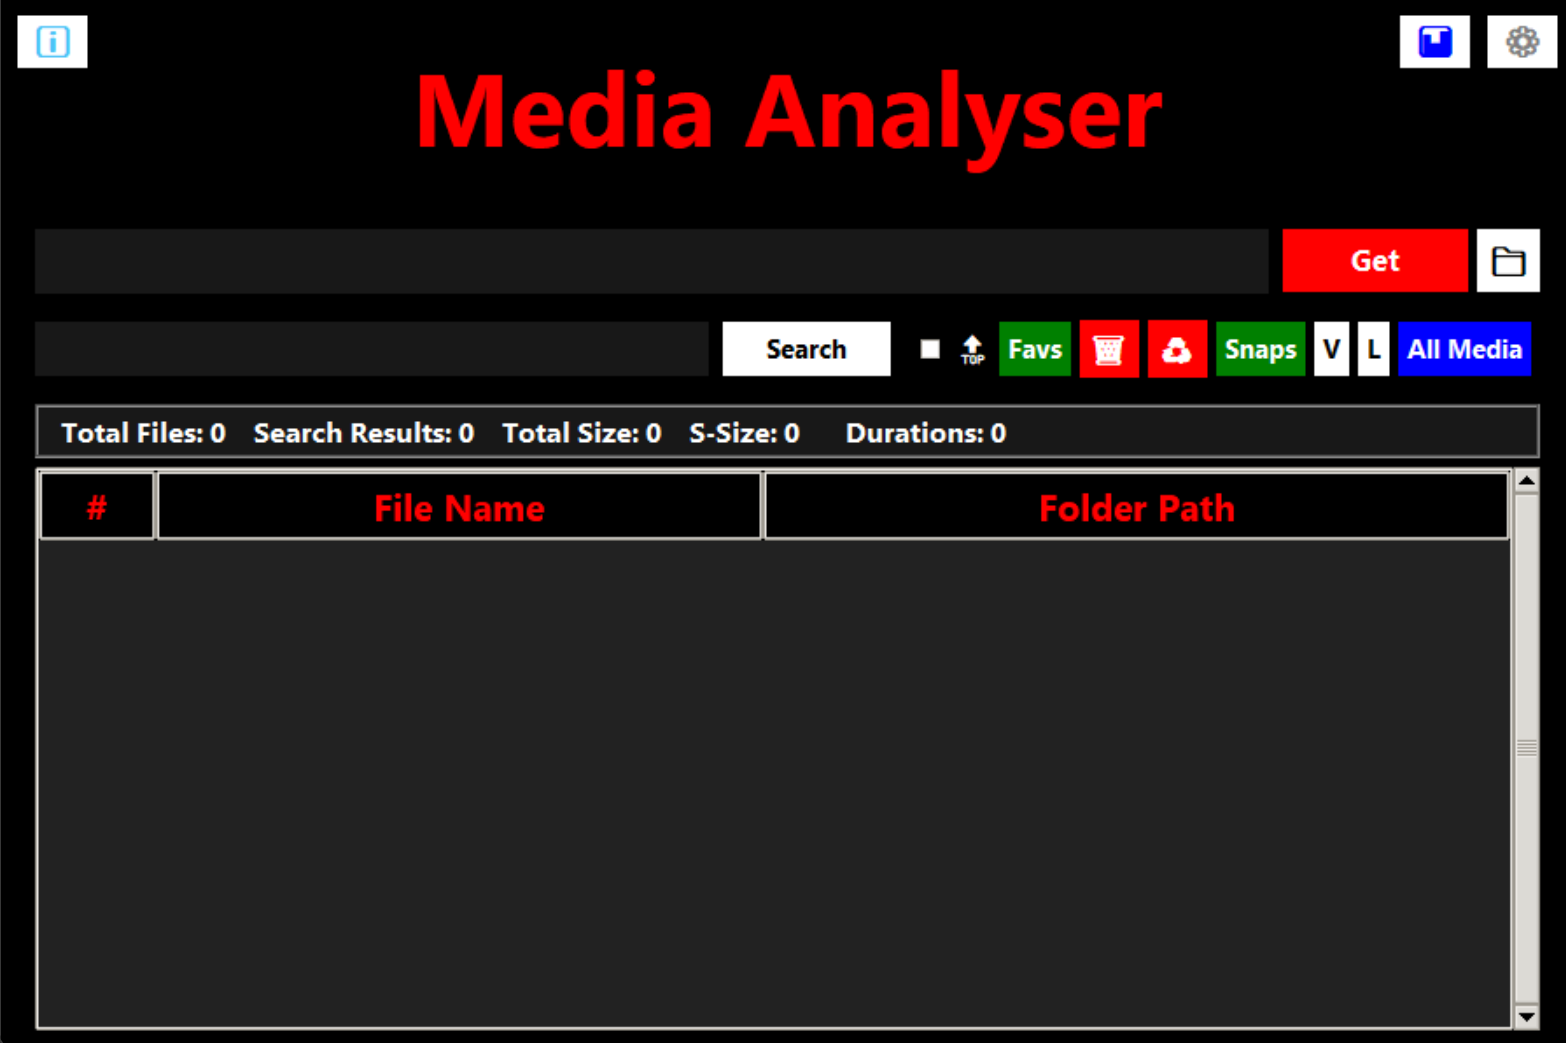
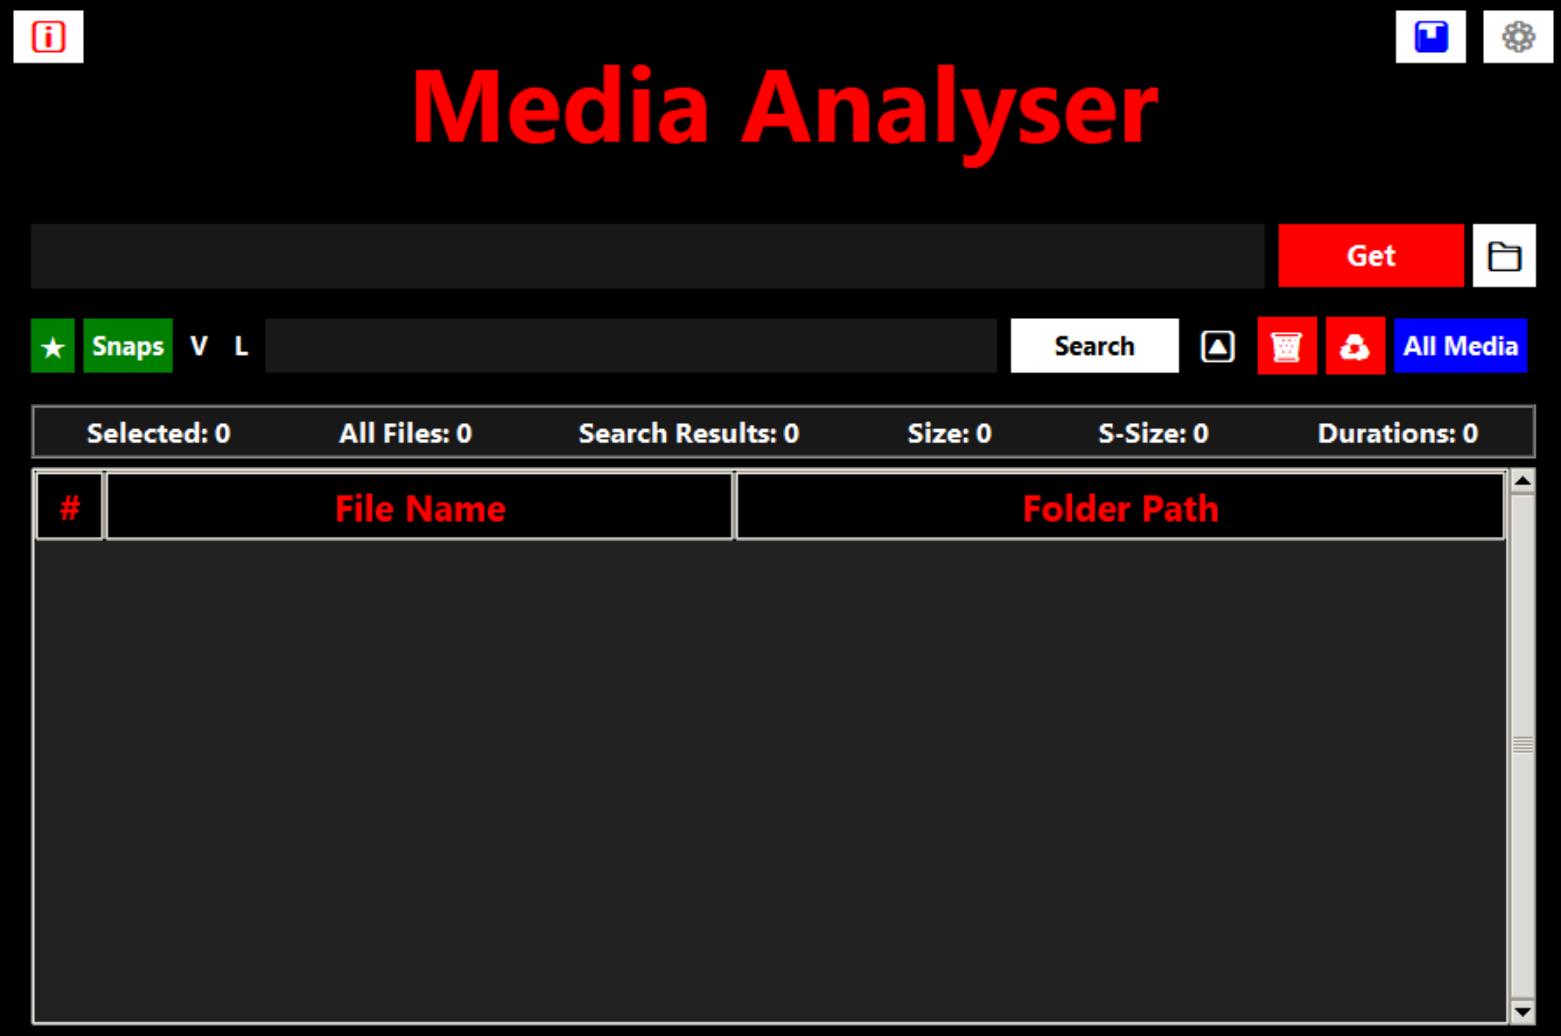
v3.2.6 - Added method for show paths instead of hard coding. Changed the button placements for better visuals. Changed the top_level button from checkbox, to selection button. Added keeping count of selected files in the table for ease of managing files. Removed the multiple initiations of fav_manag

diff --git a/gui_main.py b/gui_main.py
@@ -44,6 +44,7 @@ class FileExplorerApp:
         self.total_search_results = 0
         self.total_duration_watched = 0.0
         self.search_size = 0
+        self.video_files = []
 
         ensure_folder_exists(FILES_FOLDER)
         ensure_folder_exists(SCREENSHOTS_FOLDER)
@@ -107,12 +108,12 @@ class FileExplorerApp:
         if not selected_items:
             messagebox.showinfo("No Selection", "Select a File To Remove from Favs.")
             return
-        fav_manager = FavoritesManager()
+        # fav_manager = FavoritesManager()
         for item in selected_items:
             file_path = normalise_path(self.file_table.item(item, "values")[2])
             try:
-                if fav_manager.check_favorites(file_path):
-                    fav_manager.delete_from_favorites(file_path)
+                if self.fav_manager.check_favorites(file_path):
+                    self.fav_manager.delete_from_favorites(file_path)
                 else:
                     messagebox.showerror("Removal Failed", f"Failed to remove file: {file_path} from Favorites.")
             except Exception as e:
@@ -131,12 +132,12 @@ class FileExplorerApp:
         if not confirm:
             return
         
-        fav_manager = FavoritesManager()
+        # fav_manager = FavoritesManager()
         for item in selected_items:
             file_path = normalise_path(self.file_table.item(item, "values")[2])
             try:
-                if not fav_manager.check_favorites(file_path):
-                    fav_manager.add_to_favorites(file_path)
+                if not self.fav_manager.check_favorites(file_path):
+                    self.fav_manager.add_to_favorites(file_path)
                 else:
                     messagebox.showerror("Addition Failed", f"Failed to Add file: {file_path} To Favorites.")
             except Exception as e:
@@ -319,7 +320,39 @@ class FileExplorerApp:
 
         self.search_frame = tk.Frame(self.root, bg="black")
         self.search_frame.pack(side="top", fill="x", padx=20, pady=(0, 10))
+        
+        self.filter_favs = tk.Button(
+            self.search_frame, text="★", command=self.check_update_favs,
+            bg="green", fg="white", font=("Segoe UI", 11, "bold"),
+            bd=0, relief=tk.RAISED, activebackground="#006400",
+            cursor="hand2"
+        )
+        self.filter_favs.pack(side="left", padx=(0, 5), pady=0)
 
+        self.show_caps = tk.Button(
+            self.search_frame, text="Snaps", command=self.display_caps,
+            bg="green", fg="white", font=("Segoe UI", 11, "bold"),
+            bd=0, relief=tk.RAISED, activebackground="#006400",
+            cursor="hand2"
+        )
+        self.show_caps.pack(side="left", padx=(0, 5), pady=0)
+
+        self.show_verticals = tk.Button(
+            self.search_frame, text="V", command=self.get_verticals,
+            bg="black", fg="white", font=("Segoe UI", 11, "bold"),
+            bd=0, relief=tk.RAISED, activebackground="#e0e0e0",
+            cursor="hand2"
+        )
+        self.show_verticals.pack(side="left", padx=(0,5), pady=0)
+
+        self.show_horizontals = tk.Button(
+            self.search_frame, text="L", command=self.get_horizontals,
+            bg="black", fg="white", font=("Segoe UI", 11, "bold"),
+            bd=0, relief=tk.RAISED, activebackground="#e0e0e0",
+            cursor="hand2"
+        )
+        self.show_horizontals.pack(side="left", padx=(0, 5), pady=0)
+        
         self.search_entry = tk.Entry(
             self.search_frame, bg="#181818", fg="white", width=30, bd=2, relief=tk.FLAT,
             font=("Segoe UI", 12)
@@ -334,22 +367,29 @@ class FileExplorerApp:
         )
         self.search_button.pack(side="left", padx=(0, 0), pady=0)
 
-        self.top_level_only_var = tk.BooleanVar(value=False)
-        self.top_level_only_check = ttk.Checkbutton(
-            self.search_frame, text="🔝", variable=self.top_level_only_var,
-            style="Modern.TCheckbutton",
-            cursor="hand2",
-            takefocus=0,
-        )
-        self.top_level_only_check.pack(side="left", padx=(5, 0), pady=5)
+        # self.top_level_only_var = tk.BooleanVar(value=False)
+        # self.top_level_only_check = ttk.Checkbutton(
+        #     self.search_frame, text="🔼", variable=self.top_level_only_var,
+        #     style="Modern.TCheckbutton",
+        #     cursor="hand2",
+        #     takefocus=0,
+        # )
+        # self.top_level_only_check.pack(side="left", padx=(5, 0), pady=5)
 
-        self.filter_favs = tk.Button(
-            self.search_frame, text="Favs", command=self.check_update_favs,
-            bg="green", fg="white", font=("Segoe UI", 11, "bold"),
-            bd=0, relief=tk.RAISED, activebackground="#006400",
+        self.top_level_only_on = False
+        def toggle_top_level():
+            self.top_level_only_on = not self.top_level_only_on
+            if self.top_level_only_on:
+                self.top_level_only_button.config(bg="#4FC3F7", fg="black", relief=tk.SUNKEN)
+            else:
+                self.top_level_only_button.config(bg="black", fg="white", relief=tk.RAISED)
+        self.top_level_only_button = tk.Button(
+            self.search_frame, text="🔼", command=toggle_top_level,
+            bg="black", fg="white", font=("Segoe UI", 13, "bold"),
+            bd=0, relief=tk.RAISED, activebackground="#e0e0e0",
             cursor="hand2"
         )
-        self.filter_favs.pack(side="left", padx=(0, 5), pady=0)
+        self.top_level_only_button.pack(side="left", padx=(5, 5), pady=5)
 
         self.delete_button = tk.Button(
             self.search_frame, text="🗑", command=self.on_delete_all_pressed,
@@ -366,31 +406,7 @@ class FileExplorerApp:
             cursor="hand2"
         )
         self.refresh_deleted.pack(side="left", padx=(0, 5), pady=5)
-
-        self.show_caps = tk.Button(
-            self.search_frame, text="Snaps", command=self.display_caps,
-            bg="green", fg="white", font=("Segoe UI", 11, "bold"),
-            bd=0, relief=tk.RAISED, activebackground="#006400",
-            cursor="hand2"
-        )
-        self.show_caps.pack(side="left", padx=(0, 5), pady=0)
-
-        self.show_verticals = tk.Button(
-            self.search_frame, text="V", command=self.get_verticals,
-            bg="white", fg="black", font=("Segoe UI", 11, "bold"),
-            bd=0, relief=tk.RAISED, activebackground="#e0e0e0",
-            cursor="hand2"
-        )
-        self.show_verticals.pack(side="left", padx=(0,5), pady=0)
-
-        self.show_horizontals = tk.Button(
-            self.search_frame, text="L", command=self.get_horizontals,
-            bg="white", fg="black", font=("Segoe UI", 11, "bold"),
-            bd=0, relief=tk.RAISED, activebackground="#e0e0e0",
-            cursor="hand2"
-        )
-        self.show_horizontals.pack(side="left", padx=(0, 5), pady=0)
-
+        
         self.all_media_button = tk.Button(
             self.search_frame, text="All Media", command=self.show_all_media,
             bg="blue", fg="white", font=("Segoe UI", 11, "bold"),
@@ -400,39 +416,47 @@ class FileExplorerApp:
         self.all_media_button.pack(side="left", padx=(0, 5), pady=0)
 
         self.stats_frame = tk.Frame(self.root, bg="#181818", bd=2, relief=tk.GROOVE)
-        self.stats_frame.pack(side="top", fill="x", padx=20, pady=(0, 5))
+        self.stats_frame.pack(side="top", fill="x", padx=20, pady=(0, 5), anchor="center")
 
-        self.total_files_label = tk.Label(
-            self.stats_frame, text="Total Files: 0", bg="#181818", fg="white",
+        self.selected_files_label = tk.Label(
+            self.stats_frame, text="Selected: 0", bg="#181818", fg="white",
             font=("Segoe UI", 12, "bold")
         )
-        self.total_files_label.pack(side="left", padx=(10, 10))
+        self.selected_files_label.grid(row=0, column=0, padx=10, pady=0, sticky="ew")
+
+        self.total_files_label = tk.Label(
+            self.stats_frame, text="All Files: 0", bg="#181818", fg="white",
+            font=("Segoe UI", 12, "bold")
+        )
+        self.total_files_label.grid(row=0, column=1, padx=10, pady=0, sticky="ew")
 
         self.search_results_label = tk.Label(
             self.stats_frame, text="Search Results: 0", bg="#181818", fg="white",
             font=("Segoe UI", 12, "bold")
         )
-        self.search_results_label.pack(side="left", padx=(0, 10))
+        self.search_results_label.grid(row=0, column=2, padx=10, pady=0, sticky="ew")
 
         self.total_size_label = tk.Label(
-            self.stats_frame, text="Total Size: 0", bg="#181818", fg="white",
+            self.stats_frame, text="Size: 0", bg="#181818", fg="white",
             font=("Segoe UI", 12, "bold")
         )
-        self.total_size_label.pack(side="left", padx=(0, 10))
+        self.total_size_label.grid(row=0, column=3, padx=10, pady=0, sticky="ew")
 
         self.search_size_label = tk.Label(
             self.stats_frame, text="S-Size: 0", bg="#181818", fg="white",
             font=("Segoe UI", 12, "bold")
         )
-        self.search_size_label.pack(side="left", padx=(0, 10))
+        self.search_size_label.grid(row=0, column=4, padx=10, pady=0, sticky="ew")
 
         self.total_duration_label = tk.Label(
             self.stats_frame, text="Durations: 0", bg="#181818", fg="white",
             font=("Segoe UI", 12, "bold")
         )
-        self.total_duration_label.pack(side="left", padx=(10, 10))
+        self.total_duration_label.grid(row=0, column=5, padx=10, pady=0, sticky="ew")
 
         self._create_table()
+        for i in range(6):
+            self.stats_frame.grid_columnconfigure(i, weight=1)
 
         self.settings_button = tk.Button(
             self.root, text="⚙", command=self.open_settings,
@@ -453,7 +477,7 @@ class FileExplorerApp:
 
         self.info_button = tk.Button(
             self.root, text="ℹ", command=self.show_info,
-            bg="white", fg="#4FC3F7", bd=0, font=("Segoe UI", 13, "bold"),
+            bg="white", fg="red", bd=0, font=("Segoe UI", 13, "bold"),
             relief=tk.FLAT, activebackground="#e0e0e0",
             cursor="hand2"
         )
@@ -468,12 +492,18 @@ class FileExplorerApp:
                 e.widget.config(bg="red")
             elif e.widget == self.refresh_deleted or e.widget["text"] == "♻":
                 e.widget.config(bg="red")
-            elif "Favs" in e.widget["text"] or "Snaps" in e.widget["text"]:
+            elif "★" in e.widget["text"] or "Snaps" in e.widget["text"]:
                 e.widget.config(bg="green")
+            elif "V" in e.widget["text"] or "L" in e.widget["text"]:
+                e.widget.config(bg="black")
+            elif e.widget == self.all_media_button:
+                e.widget.config(bg="blue")
             else:
                 e.widget.config(bg="white")
 
-        for btn in [self.enter_button, self.delete_button, self.refresh_deleted, self.filter_favs, self.show_caps, self.show_verticals, self.show_horizontals]:
+        for btn in [self.enter_button, self.delete_button, self.refresh_deleted,
+                     self.filter_favs, self.show_caps, self.show_verticals, self.show_horizontals,
+                     self.all_media_button]:
             btn.bind("<Enter>", on_enter)
             btn.bind("<Leave>", on_leave)
 
@@ -488,7 +518,7 @@ class FileExplorerApp:
         self.file_table.heading("File Name", text="File Name", command=lambda: self.treeview_sort_column("File Name", False))
         self.file_table.heading("Folder Path", text="Folder Path", command=lambda: self.treeview_sort_column("Folder Path", False))
 
-        self.file_table.column("#", width=40, anchor="center")
+        self.file_table.column("#", width=40, anchor="center", stretch=False)
         self.file_table.column("File Name", width=320, anchor="w")
         self.file_table.column("Folder Path", width=400, anchor="w")
 
@@ -497,9 +527,15 @@ class FileExplorerApp:
 
         self.file_table.pack(side="left", fill="both", expand=True)
 
+        self.file_table.bind("<<TreeviewSelect>>", self.update_selected_files_label)
+
         self.scrollbar = ttk.Scrollbar(table_frame, orient="vertical", command=self.file_table.yview)
         self.scrollbar.pack(side="right", fill="y")
         self.file_table.configure(yscrollcommand=self.scrollbar.set)
+
+    def update_selected_files_label(self, event=None):
+        selected_count = len(self.file_table.selection())
+        self.selected_files_label.config(text=f"Selected: {selected_count}")
 
     def show_info(self):
         if hasattr(self, "_info_window") and self._info_window.winfo_exists():
@@ -509,16 +545,16 @@ class FileExplorerApp:
         self._info_window = tk.Toplevel(self.root)
         self._info_window.title("How to Use Random Media Player")
         self._info_window.configure(bg="#222")
-        self._info_window.geometry("520x420")
+        self._info_window.geometry("600x500")
         self._info_window.resizable(False, False)
         self._info_window.transient(self.root)
         self._info_window.grab_set()
-        self.center_window(window=self._info_window, width=520, height=420)
+        self.center_window(window=self._info_window, width=600, height=600)
 
-        icon_label = tk.Label(self._info_window, text="ℹ", font=("Segoe UI Emoji", 48), bg="#222", fg="#4FC3F7")
+        icon_label = tk.Label(self._info_window, text="ℹ", font=("Segoe UI Emoji", 48), bg="#222", fg="red")
         icon_label.pack(pady=(18, 0))
 
-        title_label = tk.Label(self._info_window, text="How to Use", font=("Segoe UI", 22, "bold"), bg="#222", fg="#4FC3F7")
+        title_label = tk.Label(self._info_window, text="How to Use", font=("Segoe UI", 22, "bold"), bg="#222", fg="red")
         title_label.pack(pady=(0, 10))
 
         frame = tk.Frame(self._info_window, bg="#222")
@@ -538,8 +574,8 @@ class FileExplorerApp:
             "• Enter a folder path Or Browse it using '📁' and click 'Get' to list media files.\n"
             "• You can enter multiple folder paths separated by commas.\n"
             "• Use 'Search' to filter files by name.\n"
-            "• Use '🔝' to search only in the top-level folder.\n"
-            "• Use 'Snaps' to view screenshots taken in the VideoPlayer.\n"
+            "• Use '🔼' to search only in the top-level folder.\n"
+            "• Use '★' and'Snaps' to view favorite files and screenshots taken respectively.\n"
             "• Double-click/Enter a file to play it.\n"
             "• Right-click a file for more options (move, delete).\n"
             "• Keyboard Shortcuts:\n"
@@ -548,8 +584,7 @@ class FileExplorerApp:
             "    - Ctrl+M: Move selected files\n"
             "    - Delete: Mark for deletion\n"
             "    - Ctrl+Shift+Delete: Remove from deletion list\n"
-            "• You can use 'V' and 'L' buttons to filter for\n"
-            "   vertical and landscape videos.\n"
+            "• You can use 'V' and 'L' buttons to filter for vertical and landscape videos.\n"
             "• Use the settings (⚙) and stats (📊) buttons for more features.\n"
             "\nNote: to use V and L you'd have to download ffmpeg on your system.\n" \
             "Download FFmpeg from: https://ffmpeg.org/download.html\n" \
@@ -558,7 +593,7 @@ class FileExplorerApp:
         info_text.config(state="disabled")
         close_btn = tk.Button(
             self._info_window, text="Close", command=self._info_window.destroy,
-            font=("Segoe UI", 12, "bold"), bg="#4FC3F7", fg="#222", bd=0,
+            font=("Segoe UI", 12, "bold"), bg="white", fg="#222", bd=0,
             relief="flat", activebackground="#0288D1", activeforeground="#fff",
             cursor="hand2"
         )
@@ -670,12 +705,13 @@ class FileExplorerApp:
                 self.update_stats()
             
             elif folder_path_string == "show paths":
-                self.reset_search_option(folder=True)
-                with open(FOLDER_LOGS, "r", encoding="utf-8") as file:
-                    reader = csv.DictReader(file)
+                # self.reset_search_option(folder=True)
+                # with open(FOLDER_LOGS, "r", encoding="utf-8") as file:
+                #     reader = csv.DictReader(file)
 
-                    self.folders = list(set((normalise_path(row["Folder Path"]), normalise_path(row["Csv Path"])) for row in reader if os.path.isdir(row["Folder Path"])))
-                self.video_files = []
+                #     self.folders = list(set((normalise_path(row["Folder Path"]), normalise_path(row["Csv Path"])) for row in reader if os.path.isdir(row["Folder Path"])))
+                # self.video_files = []
+                self.show_paths()
             
             elif folder_path_string == "show deletes":
                 # Show files marked as "ToDelete"
@@ -711,6 +747,25 @@ class FileExplorerApp:
         elif self.play_folder:
             print(f"Total Folders in Search History: {len(self.folders)}")
             self.insert_to_table(sorted(self.folders))
+
+    def show_paths(self):
+        """Show only those folder/csv pairs where both the folder and the CSV file exist."""
+        self.reset_search_option(folder=True)
+        valid_folders = []
+        try:
+            with open(FOLDER_LOGS, "r", encoding="utf-8") as file:
+                reader = csv.DictReader(file)
+                for row in reader:
+                    folder_path = normalise_path(row["Folder Path"])
+                    csv_path = normalise_path(row["Csv Path"])
+                    if os.path.isdir(folder_path) and os.path.isfile(csv_path):
+                        valid_folders.append((folder_path, csv_path))
+            self.folders = list(set(valid_folders))
+            # self.video_files = []
+            # self.insert_to_table(sorted(self.folders))
+            self.update_entry_text("show paths")
+        except Exception as e:
+            messagebox.showerror("Error", f"Failed to load valid folder/csv pairs: {e}")
 
     def refresh_deletions(self):
         self.deletion_manager.check_deleted()
@@ -773,7 +828,7 @@ class FileExplorerApp:
         file_list = []
         try:
             search_files = self.image_files if self.play_images else self.video_files
-            top_level_only = hasattr(self, "top_level_only_var") and self.top_level_only_var.get()
+            top_level_only = getattr(self, "top_level_only_on", False)
             folder_input = normalise_path(self.entry.get()).rstrip("\\/")
             for file in search_files:
                 if top_level_only:

diff --git a/Readme.md b/Readme.md
@@ -69,6 +69,24 @@ For full details, advanced features, keyboard shortcuts, troubleshooting, and co
 
 ---
 
+## Quick Launch (Batch File)
+
+If you haven't created an executable yet, you can use a batch file to run the app as if it were an executable.  
+This also ensures the current directory is set correctly for relative paths:
+
+1. Create a new file named `RunRandomMediaAnalyser.bat` in the project directory.
+2. Add the following code to the batch file:
+
+    ```bat
+    @echo off
+    cd <path to random-media-player dir>
+    python gui_main.py
+    pause
+    ```
+
+3. Double-click the batch file to launch the app.
+4. This way you can use this program as an executable.
+
 ## More Information
 
 - **Keyboard Shortcuts**
